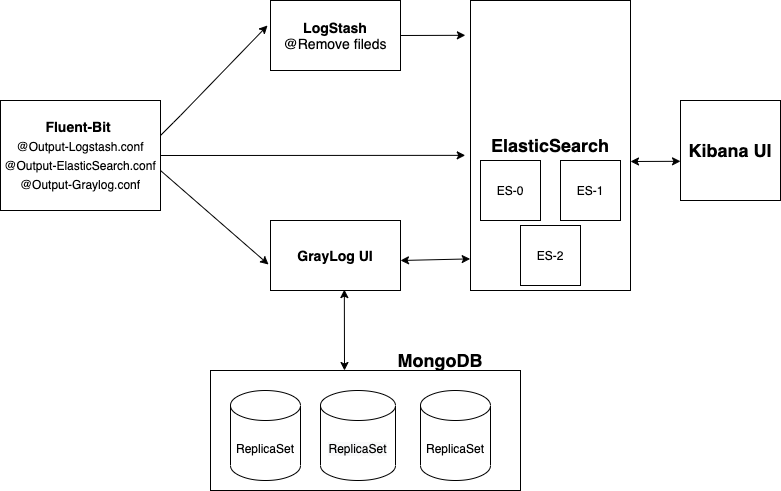
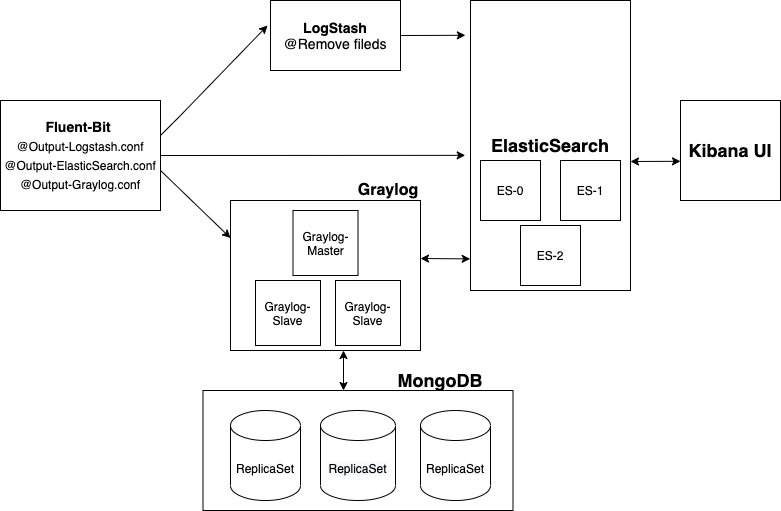
k8s' Addon

diff --git a/logging/README.md b/logging/README.md
@@ -5,6 +5,7 @@
 Run below playbook to install Fluent-Bit, ElasticSearch, LogStash, Graylog, Kibana
 
 ## Dev Logging
+
 ```
 kubectl apply -f logging-all-in-one.yaml
 ```
@@ -15,6 +16,12 @@ kubectl apply -f logging-all-in-one.yaml
 
 
 ## Prod Logging
+
+### [Motivation](https://docs.graylog.org/en/4.0/pages/architecture.html#bigger-production-setup)
+
+```
+kubectl apply -f prod-logging.yaml
+```
 
 `prod-logging.yaml` represents below architecture 
 
